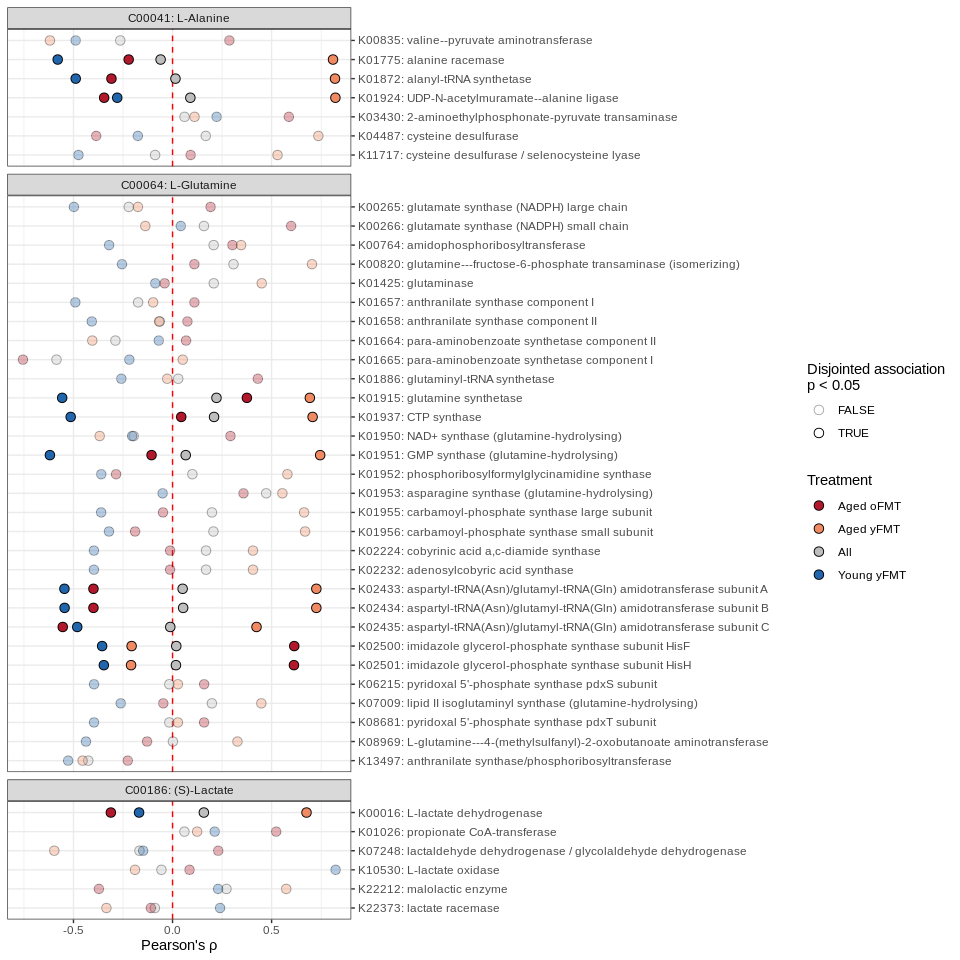
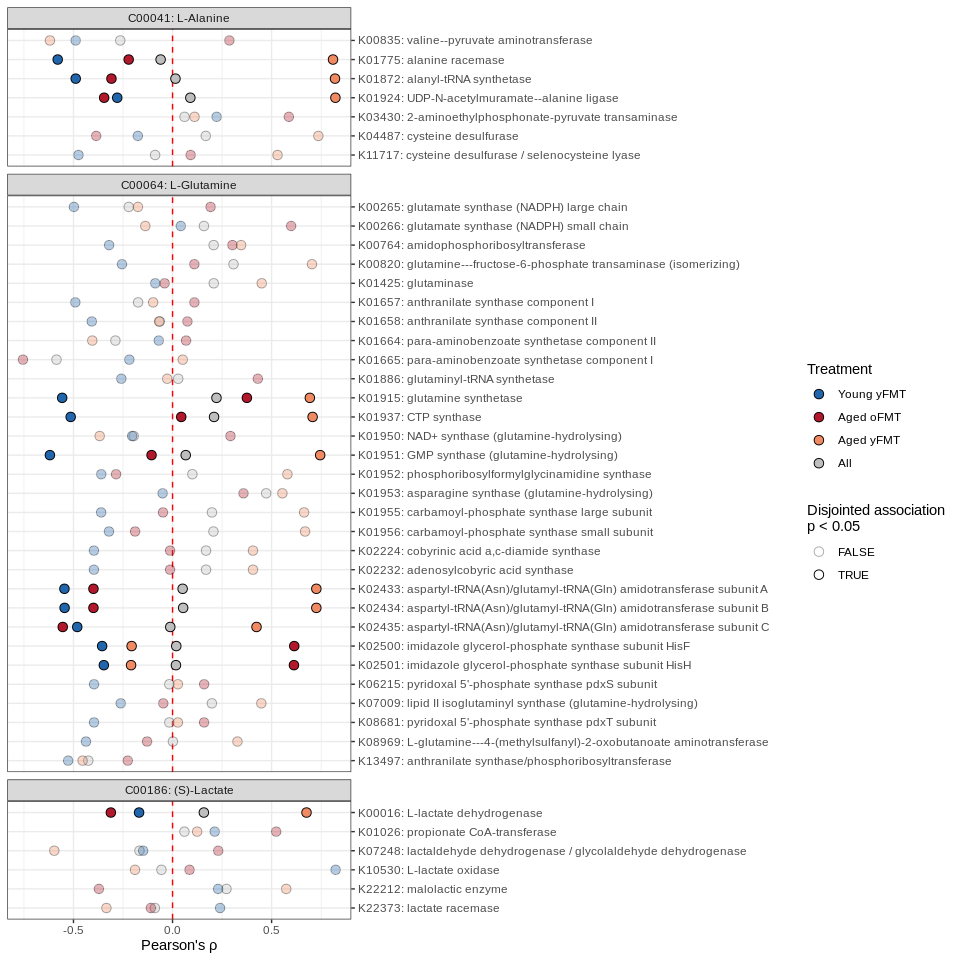
fix readme

Changed region(s): [[0.8438, 0.375, 0.9688, 0.625]]

diff --git a/README.md b/README.md
@@ -218,7 +218,8 @@ ggplot(data = anansiLong,
   scale_fill_manual(values = c("Young yFMT" = "#2166ac", 
                                "Aged oFMT"  = "#b2182b", 
                                "Aged yFMT"  = "#ef8a62", 
-                               "All"        = "gray"), "Treatment")+
+                               "All"        = "gray"), 
+                    breaks = c("Young yFMT", "Aged oFMT", "Aged yFMT", "All"), "Treatment")+
   theme_bw() + 
   ylab("") + 
   xlab("Pearson's \u03c1")
